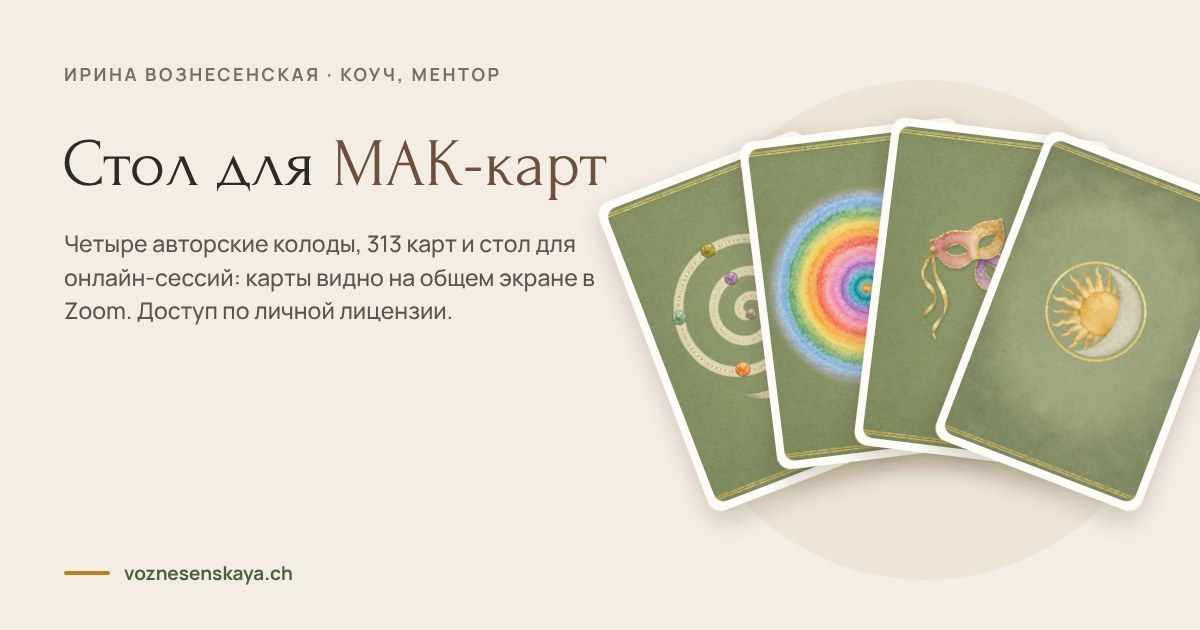
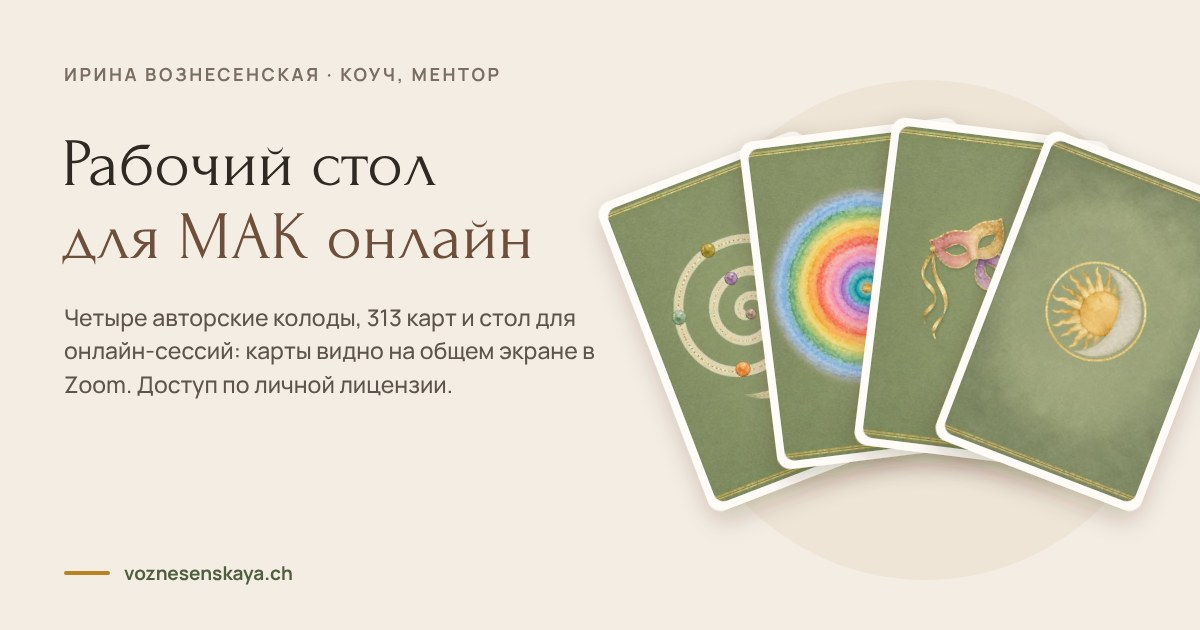
МАК-карты: стол переименован в «Рабочий стол для МАК онлайн» — страница, превью ссылки, «Новое»; память сайта v55 (RU)
Claude-Session: https://claude.ai/code/session_01VLBoUty16RTWdg7egacYMK

diff --git a/mak/index.html b/mak/index.html
@@ -4,11 +4,11 @@
 <meta charset="utf-8">
 <meta name="viewport" content="width=device-width,initial-scale=1,viewport-fit=cover">
 <link rel="icon" href="../favicon.svg" type="image/svg+xml"><link rel="icon" href="../favicon-32.png" sizes="32x32"><link rel="apple-touch-icon" href="../apple-touch-icon.png">
-<title>Стол для МАК-карт — авторские колоды для онлайн-сессий · Ирина Вознесенская</title>
-<meta name="description" content="Онлайн-стол для сессий с метафорическими картами: четыре авторские колоды (313 карт), вопросы над картами, готовые расклады, снимок и PDF расклада. Доступ по личной лицензии.">
+<title>Рабочий стол для МАК онлайн — четыре авторские колоды · Ирина Вознесенская</title>
+<meta name="description" content="Рабочий стол для работы с метафорическими ассоциативными картами (МАК) онлайн: четыре авторские колоды (313 карт), вопросы над картами, готовые расклады, снимок и PDF расклада. Доступ по личной лицензии.">
 <link rel="canonical" href="https://voznesenskaya.ch/mak/">
 <meta property="og:type" content="website"><meta property="og:locale" content="ru_RU"><meta property="og:site_name" content="Ирина Вознесенская · коучинг">
-<meta property="og:title" content="Стол для МАК-карт — авторские колоды для онлайн-сессий"><meta property="og:description" content="Четыре колоды, вопросы над картами, готовые расклады, снимок и PDF. Карты видно на общем экране в Zoom. Доступ по личной лицензии.">
+<meta property="og:title" content="Рабочий стол для МАК онлайн — четыре авторские колоды"><meta property="og:description" content="Четыре колоды, вопросы над картами, готовые расклады, снимок и PDF. Карты видно на общем экране в Zoom. Доступ по личной лицензии.">
 <meta property="og:url" content="https://voznesenskaya.ch/mak/"><meta property="og:image" content="https://voznesenskaya.ch/mak/og-image.jpg"><meta property="og:image:width" content="1200"><meta property="og:image:height" content="630">
 <meta name="twitter:card" content="summary_large_image">
 <link rel="stylesheet" href="../assets/fonts.css">
@@ -550,7 +550,7 @@ footer a{color:var(--muted)}
 .bowl img,.os-card img{-webkit-mask-image:linear-gradient(90deg,transparent,#000 10%,#000 90%,transparent),linear-gradient(180deg,transparent,#000 10%,#000 90%,transparent);-webkit-mask-composite:source-in;mask-image:linear-gradient(90deg,transparent,#000 10%,#000 90%,transparent),linear-gradient(180deg,transparent,#000 10%,#000 90%,transparent);mask-composite:intersect}
 </style>
 <style>
-/* ---------- «МАК-карты» (mak/, 17.10.2026): стол для МАК-карт с закрытым входом ---------- */
+/* ---------- «МАК-карты» (mak/, 17.10.2026): «Рабочий стол для МАК онлайн» (до 17.10.2026, 18:47 — «Стол для МАК-карт») с закрытым входом ---------- */
 .nw{white-space:nowrap}
 .mk section{padding-block:48px}
 .mk-hero{display:grid;grid-template-columns:minmax(0,1.15fr) minmax(0,.85fr);gap:32px;align-items:center;padding-block:56px 40px!important}
@@ -664,9 +664,9 @@ html.mk-lockscroll{overflow:hidden}
   <section class="mk-hero" aria-labelledby="h1">
     <div class="mk-hero-txt">
       <div class="eyebrow">МАК-карты · авторские колоды</div>
-      <h1 id="h1">Стол для <span class="nw">МАК-карт</span> <em>для онлайн-сессий</em></h1>
+      <h1 id="h1">Рабочий стол <em>для МАК онлайн</em></h1>
       <p class="lead">Карта ложится на стол, человек видит её на общем экране и рассказывает, что в ней узнаёт. Четыре авторские колоды, вопросы над картами, готовые расклады. Расклад сохраняется картинкой и в PDF.</p>
-      <p class="mk-for">Для коучей, психологов и всех, кто ведёт сессии с метафорическими картами.</p>
+      <p class="mk-for">Для коучей, психологов и всех, кто работает с МАК — метафорическими ассоциативными картами — на онлайн-сессиях.</p>
       <div class="mk-cta"><a class="btn" href="#vhod">Войти в стол</a><a class="btn ghost" href="#dostup">Как получить доступ</a></div>
     </div>
     <div class="mk-fan" aria-hidden="true">
@@ -692,7 +692,7 @@ html.mk-lockscroll{overflow:hidden}
   <section class="mk-shot" aria-labelledby="h-shot">
     <div class="sec-head"><div class="eyebrow">Как это выглядит</div><h2 id="h-shot">Карты на столе — и всё под рукой</h2></div>
     <figure>
-      <img src="img/stol.jpg" alt="Стол для МАК-карт: три карты «Символов спирали» с вопросами «Где я сейчас?», «Что меня держит?», «К чему я тянусь?», внизу полка с четырьмя колодами" width="1600" height="956" loading="lazy">
+      <img src="img/stol.jpg" alt="Рабочий стол для МАК онлайн: три карты «Символов спирали» с вопросами «Где я сейчас?», «Что меня держит?», «К чему я тянусь?», внизу полка с четырьмя колодами" width="1600" height="956" loading="lazy">
       <figcaption>Расклад «Три шага» из колоды «Символы спирали». Бледная надпись поверх стола — водяной знак: у каждого покупателя в нём свой номер лицензии.</figcaption>
     </figure>
   </section>
@@ -741,7 +741,7 @@ html.mk-lockscroll{overflow:hidden}
     <div class="mk-how-cta"><span class="mk-price">Цену уточняй лично. Окончательная цена появится здесь, как только я её утвержу.</span><a class="btn" href="https://t.me/IrynaNeuroCoach" target="_blank" rel="noopener">Написать в Telegram</a></div>
   </section>
 
-  <div class="share-slot" data-url="https://voznesenskaya.ch/mak/" data-lead="Знаешь коллегу, который работает с МАК-картами? Перешли страницу, сообщение уже готово." data-text="Привет! Тут авторские МАК-колоды с онлайн-столом для сессий: карты ложатся на стол, их видно в Zoom, расклад сохраняется в PDF. Посмотри:"></div>
+  <div class="share-slot" data-url="https://voznesenskaya.ch/mak/" data-lead="Знаешь коллегу, который работает с МАК-картами? Перешли страницу, сообщение уже готово." data-text="Привет! Тут рабочий стол для МАК онлайн с четырьмя авторскими колодами: карты ложатся на стол, их видно в Zoom, расклад сохраняется в PDF. Посмотри:"></div>
 
   <footer>
     <span>© 2026 Ирина Вознесенская · коуч, ментор, автор метода «Ступени. Твой путь в новой стране»</span>
@@ -753,14 +753,14 @@ html.mk-lockscroll{overflow:hidden}
   <div class="mk-nl-c">
     <div class="mk-nl-i" aria-hidden="true"><svg viewBox="0 0 24 24"><rect x="4" y="10" width="16" height="10" rx="2.5"/><path d="M8 10V7.5a4 4 0 0 1 8 0V10"/><path d="M12 14v2.5"/></svg></div>
     <h2 id="mkNlH">E-mail не распознан</h2>
-    <p id="mkNlP">С этим адресом нет лицензии с доступом к «Столу для МАК-карт».</p>
+    <p id="mkNlP">С этим адресом нет лицензии с доступом к «Рабочему столу для МАК онлайн».</p>
     <p class="mk-small">Проверь, нет ли опечатки в адресе. Если доступ уже оплачен, напиши мне — я проверю.</p>
     <div class="mk-nl-b"><a class="btn" href="https://t.me/IrynaNeuroCoach" target="_blank" rel="noopener">Написать в Telegram</a><a class="btn ghost" href="#dostup" id="mkNlHow">Как получить доступ</a><button class="btn ghost" type="button" id="mkNlX">Закрыть</button></div>
   </div>
 </div>
 
 <script>
-/* Вход в «Стол для МАК-карт». Сам стол с колодами живёт отдельно, на закрытом сервере (stol.voznesenskaya.ch):
+/* Вход в «Рабочий стол для МАК онлайн». Сам стол с колодами живёт отдельно, на закрытом сервере (stol.voznesenskaya.ch):
    на этом сайте колод нет. Пока закрытый стол не подключён (STOL = ''), на любой e-mail — окно «E-mail не распознан»
    (решение Ирины 17.10.2026, 16:58). Когда подключим — STOL = 'https://stol.voznesenskaya.ch', и форма ведёт на его вход. */
 (() => {

diff --git a/index.html b/index.html
@@ -1063,7 +1063,7 @@ span.rv-prod:hover{background:var(--sage-soft);color:var(--sage)}
   <section id="novoe" aria-labelledby="nv-h">
     <h2 id="nv-h">Новое</h2>
     <p class="nv-lead">Что появилось на сайте и в проекте «Свои люди».</p>
-    <div class="nv-grid"><article class="nv-item"><div class="nv-meta"><span class="nv-k">На сайте</span><time datetime="2026-10-17">17 октября 2026</time></div><h3>Стол для МАК-карт</h3><p>Новая вкладка «МАК-карты»: онлайн-стол для сессий с четырьмя моими авторскими колодами, 313 карт. Карты видно на общем экране в Zoom, расклад сохраняется картинкой и в PDF. Доступ — по личной лицензии.</p><a href="mak/">Посмотреть →</a></article><article class="nv-item"><div class="nv-meta"><span class="nv-k">На сайте</span><time datetime="2026-10-15">15 октября 2026</time></div><h3>Основа метода: спиральная динамика</h3><p>На чём стоят ступени моего метода. Кто создал спиральную динамику — Клэр Грейвз, Дон Бек и Кристофер Кован, что человеку нужно и что для него ценно на каждом из восьми уровней и как он переходит на следующий: шесть условий перемены и пять состояний на пути. У каждого уровня — своя карта-акварель.</p><a href="osnova/">Прочитать →</a></article><article class="nv-item"><div class="nv-meta"><span class="nv-k">На сайте</span><time datetime="2026-10-15">15 октября 2026</time></div><h3>Три пути: жизнь, своё дело и отношения</h3><p>«Твой путь» теперь — три пути одного метода. Жизнь в новой стране, своё дело и новый путь «Мужчина и женщина — ступень за ступенью»: восемь ступеней отношений от «рядом безопасно» до любви, которая больше вас двоих. На всех трёх путях одни инструменты, и каждый говорит о своём.</p><a href="otnosheniya/">Посмотреть →</a></article><article class="nv-item"><div class="nv-meta"><span class="nv-k">На сайте</span><time datetime="2026-10-15">15 октября 2026</time></div><h3>Своё дело — с нуля и до вершины</h3><p>Восемь ступеней, по которым растёт своё дело в новой стране: от первой мысли «а что, если своё?» до дела, которое живёт и помогает другим. У каждой ступени — с чем на неё приходят, что тебе нужно и что поможет на каждом из трёх шагов: статьи и бесплатные инструменты «Своих людей», программы и встречи со мной.</p><a href="delo/">Посмотреть →</a></article></div>
+    <div class="nv-grid"><article class="nv-item"><div class="nv-meta"><span class="nv-k">На сайте</span><time datetime="2026-10-17">17 октября 2026</time></div><h3>Рабочий стол для МАК онлайн</h3><p>Новая вкладка «МАК-карты»: рабочий стол для онлайн-сессий с метафорическими картами и четырьмя моими авторскими колодами, 313 карт. Карты видно на общем экране в Zoom, расклад сохраняется картинкой и в PDF. Доступ — по личной лицензии.</p><a href="mak/">Посмотреть →</a></article><article class="nv-item"><div class="nv-meta"><span class="nv-k">На сайте</span><time datetime="2026-10-15">15 октября 2026</time></div><h3>Основа метода: спиральная динамика</h3><p>На чём стоят ступени моего метода. Кто создал спиральную динамику — Клэр Грейвз, Дон Бек и Кристофер Кован, что человеку нужно и что для него ценно на каждом из восьми уровней и как он переходит на следующий: шесть условий перемены и пять состояний на пути. У каждого уровня — своя карта-акварель.</p><a href="osnova/">Прочитать →</a></article><article class="nv-item"><div class="nv-meta"><span class="nv-k">На сайте</span><time datetime="2026-10-15">15 октября 2026</time></div><h3>Три пути: жизнь, своё дело и отношения</h3><p>«Твой путь» теперь — три пути одного метода. Жизнь в новой стране, своё дело и новый путь «Мужчина и женщина — ступень за ступенью»: восемь ступеней отношений от «рядом безопасно» до любви, которая больше вас двоих. На всех трёх путях одни инструменты, и каждый говорит о своём.</p><a href="otnosheniya/">Посмотреть →</a></article><article class="nv-item"><div class="nv-meta"><span class="nv-k">На сайте</span><time datetime="2026-10-15">15 октября 2026</time></div><h3>Своё дело — с нуля и до вершины</h3><p>Восемь ступеней, по которым растёт своё дело в новой стране: от первой мысли «а что, если своё?» до дела, которое живёт и помогает другим. У каждой ступени — с чем на неё приходят, что тебе нужно и что поможет на каждом из трёх шагов: статьи и бесплатные инструменты «Своих людей», программы и встречи со мной.</p><a href="delo/">Посмотреть →</a></article></div>
     <div class="nv-bridge"><p><b>Практические вопросы о жизни в Швейцарии</b> — пермит, налоги, страховки, школа, жильё — собраны в моём проекте «Свои люди». Там же специалисты, которые говорят на твоём языке, и бесплатные инструменты.</p><a class="btn ghost" href="https://svoiludi.ch/" target="_blank" rel="noopener">Открыть «Свои люди»</a></div>
     <div class="nv-sub"><div><b>Подписаться на новое</b><p>Новые материалы, мысли об адаптации и анонсы — в моём Telegram-канале. Отписаться можно в любой момент.</p></div><a class="btn" href="https://t.me/IrynaNeuroCoach_channel" target="_blank" rel="noopener">Подписаться в Telegram</a></div>
   </section>

diff --git a/_i18n/og.js b/_i18n/og.js
@@ -42,10 +42,10 @@ const CARDS = [
   { out: 'osnova/og-image',
     art: () => spiral(),
     ru: ['Спиральная динамика&nbsp;— <em>основа метода</em>', 'Кто её создал, что важно человеку на каждом из восьми уровней и как он переходит на следующий.'] },
-  /* 17.10.2026, Ирина: «выложи его на сайте отдельной вкладкой МАК Карты» — превью: веер рубашек четырёх колод. Пока только RU (переводы на паузе) */
+  /* 17.10.2026, Ирина: «выложи его на сайте отдельной вкладкой МАК Карты» — превью: веер рубашек четырёх колод. Пока только RU (переводы на паузе). 17.10.2026, 18:47, Ирина: «назови его рабочий стол для работы с мак онлайн» */
   { out: 'mak/og-image',
     art: () => fan(),
-    ru: ['Стол для <em>МАК-карт</em>', 'Четыре авторские колоды, 313 карт и стол для онлайн-сессий: карты видно на общем экране в Zoom. Доступ по личной лицензии.'] },
+    ru: ['Рабочий стол<br><em>для МАК онлайн</em>', 'Четыре авторские колоды, 313 карт и стол для онлайн-сессий: карты видно на общем экране в Zoom. Доступ по личной лицензии.'] },
   { out: 'otnosheniya/og-image',
     art: () => card('home/img/og/otnosheniya.jpg'),
     ru: ['Мужчина и&nbsp;женщина&nbsp;— <em>ступень за&nbsp;ступенью</em>', 'Восемь ступеней, по которым растут отношения: от «рядом безопасно» до любви, которая больше вас двоих.'] },   // КОПИЯ 14.10.2026; uk/de/en — после «переводи»

diff --git a/sw.js b/sw.js
@@ -3,7 +3,7 @@
    Файлы (стили, скрипты, шрифты, картинки): сразу из памяти, в фоне обновляются.
    Личные записи людей здесь не хранятся: они остаются в localStorage браузера, как раньше.
    При изменении этого файла поднять VERSION — старая память удалится. */
-const VERSION = 'v54-2026-10-17';
+const VERSION = 'v55-2026-10-17';
 const CACHE = 'vz-' + VERSION;
 const CORE = ['/offline',   // без .html: Cloudflare отдаёт страницы без .html (17.10.2026)
               '/assets/vz-app.js', '/icon-192.png', '/favicon.svg'];

diff --git a/_i18n/novoe.py b/_i18n/novoe.py
@@ -4,7 +4,7 @@
 import re, os
 ROOT = os.path.dirname(os.path.dirname(os.path.abspath(__file__)))
 ITEMS = [  # (дата ISO, дата текстом, метка, заголовок, текст, ссылка, кнопка)
- ('2026-10-17','17 октября 2026','На сайте','Стол для МАК-карт','Новая вкладка «МАК-карты»: онлайн-стол для сессий с четырьмя моими авторскими колодами, 313 карт. Карты видно на общем экране в Zoom, расклад сохраняется картинкой и в PDF. Доступ — по личной лицензии.','mak/','Посмотреть'),
+ ('2026-10-17','17 октября 2026','На сайте','Рабочий стол для МАК онлайн','Новая вкладка «МАК-карты»: рабочий стол для онлайн-сессий с метафорическими картами и четырьмя моими авторскими колодами, 313 карт. Карты видно на общем экране в Zoom, расклад сохраняется картинкой и в PDF. Доступ — по личной лицензии.','mak/','Посмотреть'),
  ('2026-10-15','15 октября 2026','На сайте','Основа метода: спиральная динамика','На чём стоят ступени моего метода. Кто создал спиральную динамику — Клэр Грейвз, Дон Бек и Кристофер Кован, что человеку нужно и что для него ценно на каждом из восьми уровней и как он переходит на следующий: шесть условий перемены и пять состояний на пути. У каждого уровня — своя карта-акварель.','osnova/','Прочитать'),
  ('2026-10-15','15 октября 2026','На сайте','Три пути: жизнь, своё дело и отношения','«Твой путь» теперь — три пути одного метода. Жизнь в новой стране, своё дело и новый путь «Мужчина и женщина — ступень за ступенью»: восемь ступеней отношений от «рядом безопасно» до любви, которая больше вас двоих. На всех трёх путях одни инструменты, и каждый говорит о своём.','otnosheniya/','Посмотреть'),
  ('2026-10-15','15 октября 2026','На сайте','Своё дело — с нуля и до вершины','Восемь ступеней, по которым растёт своё дело в новой стране: от первой мысли «а что, если своё?» до дела, которое живёт и помогает другим. У каждой ступени — с чем на неё приходят, что тебе нужно и что поможет на каждом из трёх шагов: статьи и бесплатные инструменты «Своих людей», программы и встречи со мной.','delo/','Посмотреть'),

diff --git a/_i18n/JOURNAL.md b/_i18n/JOURNAL.md
@@ -88,3 +88,7 @@
 - Вход: на любой правильный e-mail — окно «E-mail не распознан. С этим адресом нет лицензии с доступом…». Колод и картинок карт на этом сайте нет (репозиторий публичный); закрытый стол — отдельно, https://stol.voznesenskaya.ch после Cloudflare. Когда подключим — в mak/index.html `STOL = 'https://stol.voznesenskaya.ch'`, форма поведёт на его вход.
 - Меню: вкладка «МАК-карты» после «Тестов» во всех RU-страницах с меню; на телефоне — плитки 4 + 3 (_i18n/shape.py, TILES7, значок `mak`); в приложении — пункт в листе «Ещё» (assets/vz-app.js, только RU).
 - UK, DE, EN — не переведено (переводы на паузе): страница mak/ и пункт меню ждут слова Ирины «переводи».
+
+## 17.10.2026 — выложено сразу (поправка): стол называется «Рабочий стол для МАК онлайн» (только RU)
+- Ирина, 18:47: «назови его рабочий стол для работы с мак онлайн». Чтобы не повторять «рабочий… работы», название — «Рабочий стол для МАК онлайн»; полная фраза «рабочий стол для работы с метафорическими ассоциативными картами (МАК) онлайн» — в описании страницы для поиска, а под заголовком объяснено, что такое МАК.
+- mak/: заголовок страницы и вкладки браузера, описание, превью ссылки (заново), подпись к снимку, окно «E-mail не распознан», текст «Поделиться»; «Новое» на главной; sw v55. Вкладка в меню — по-прежнему «МАК-карты».
